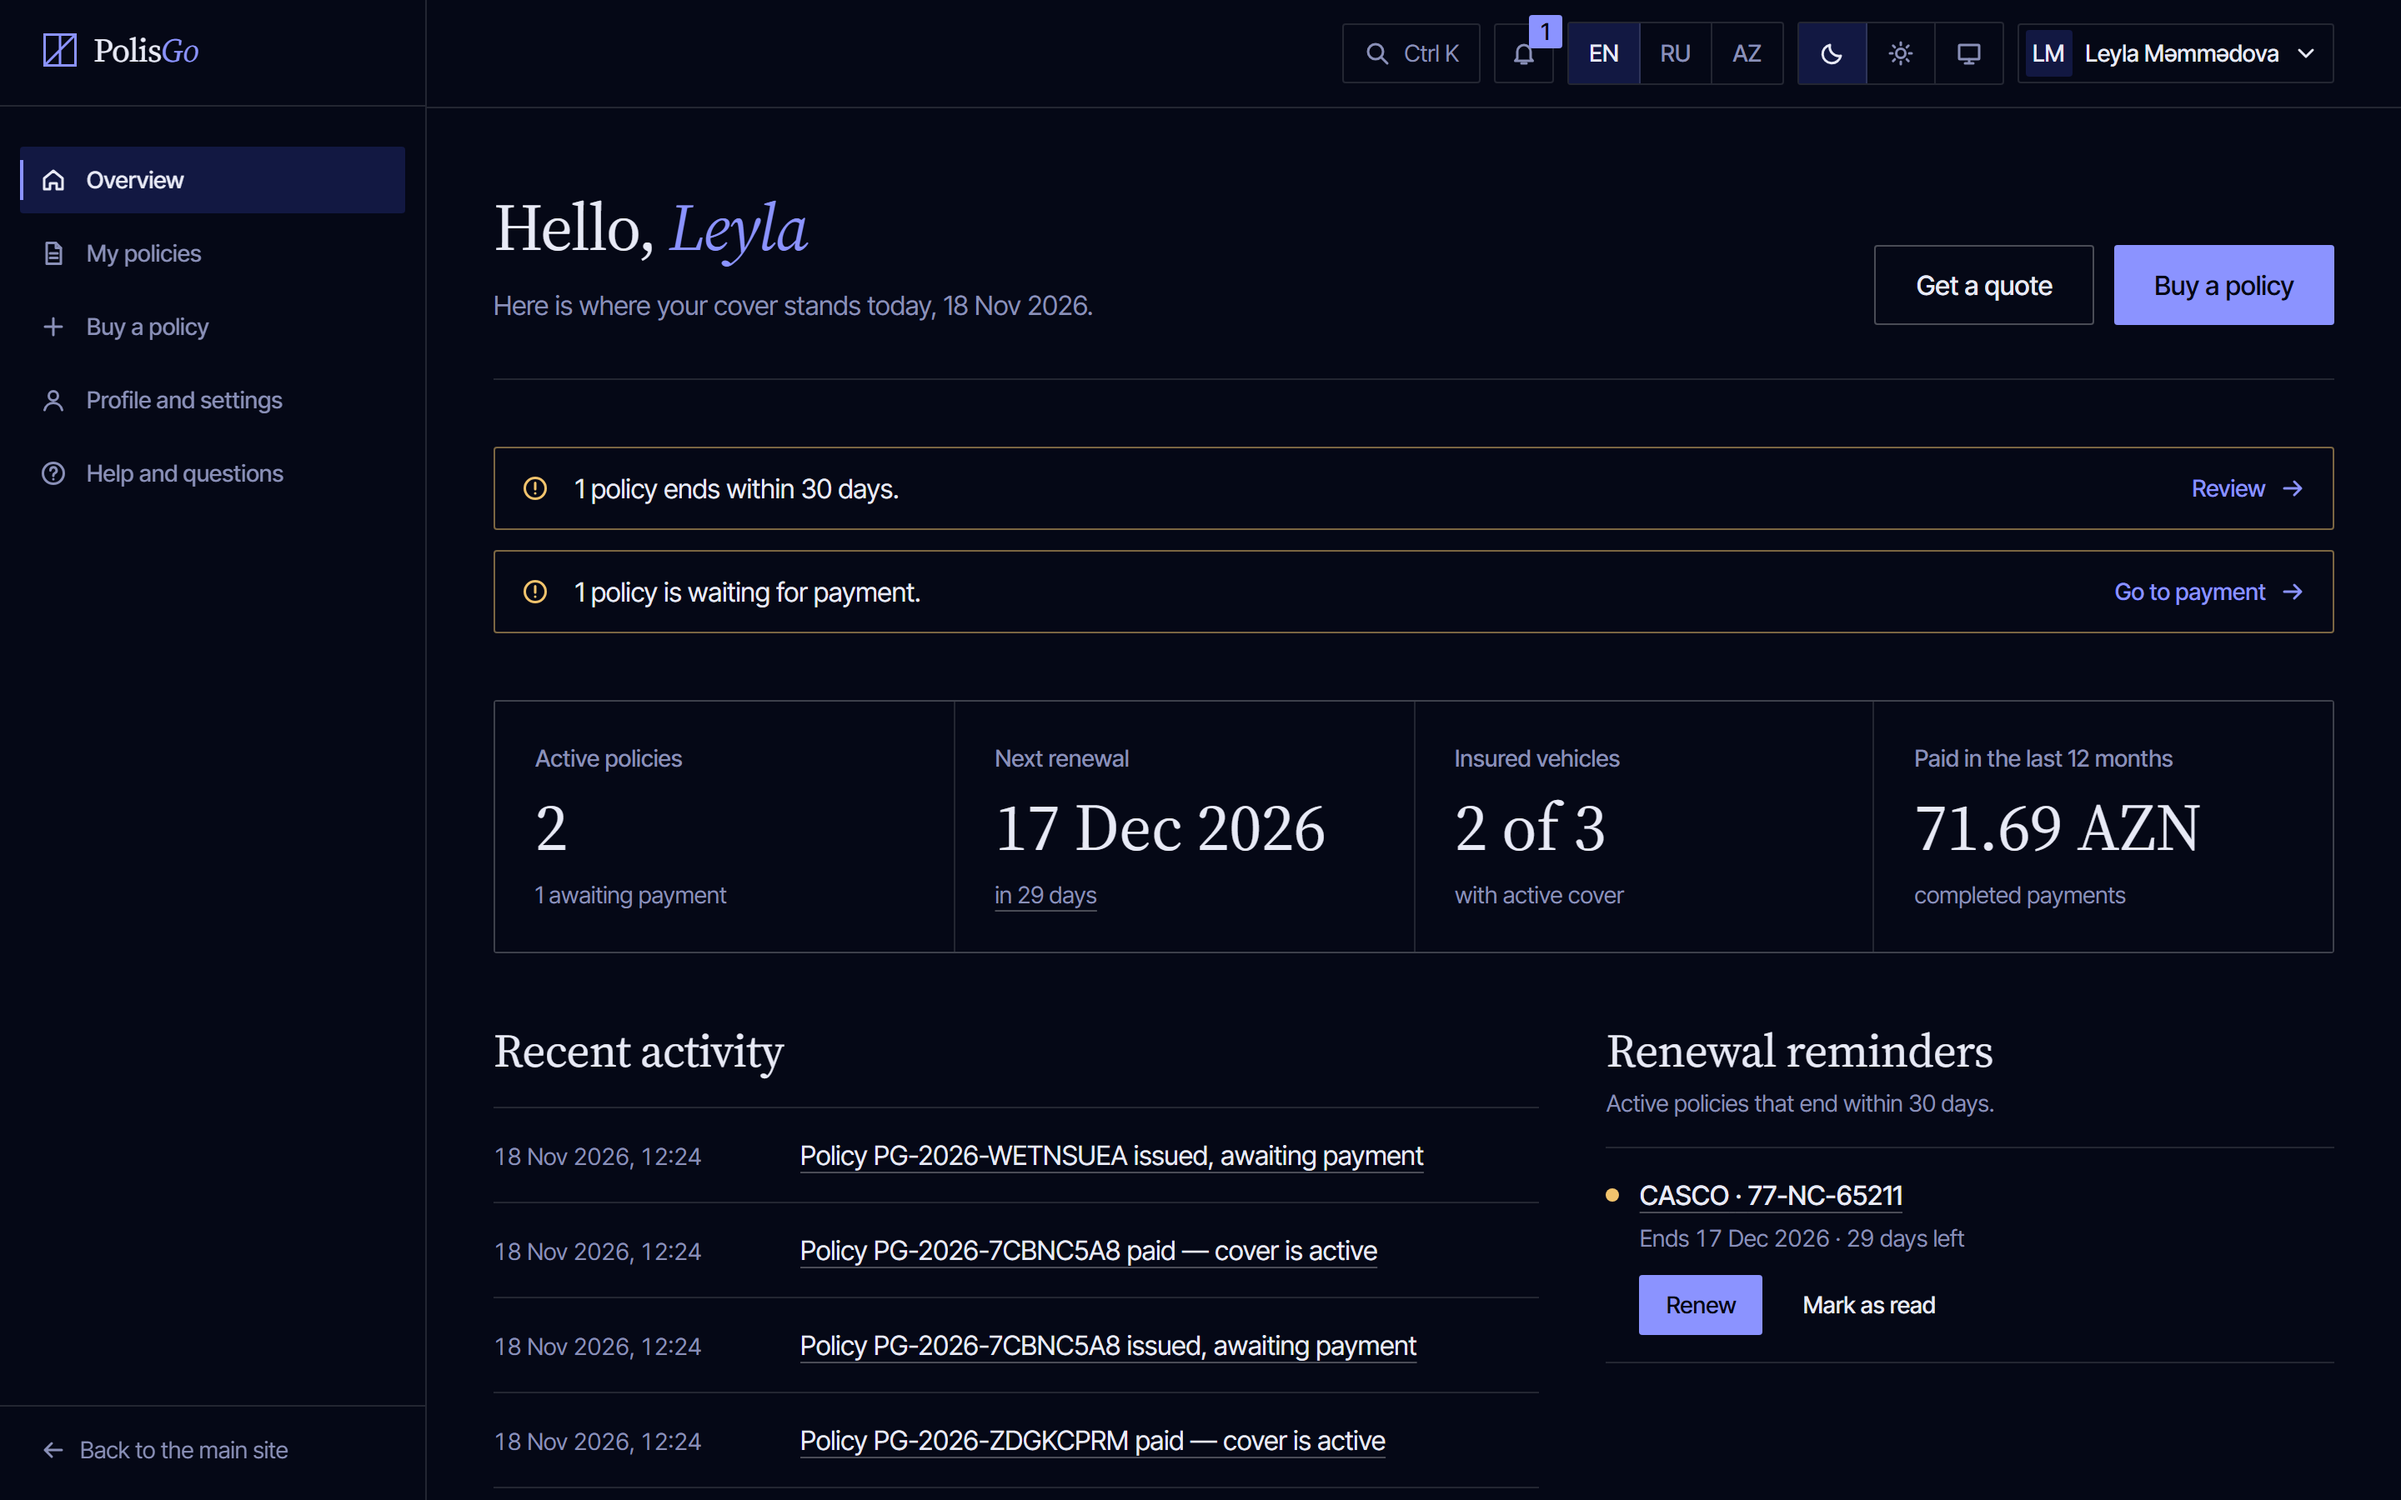
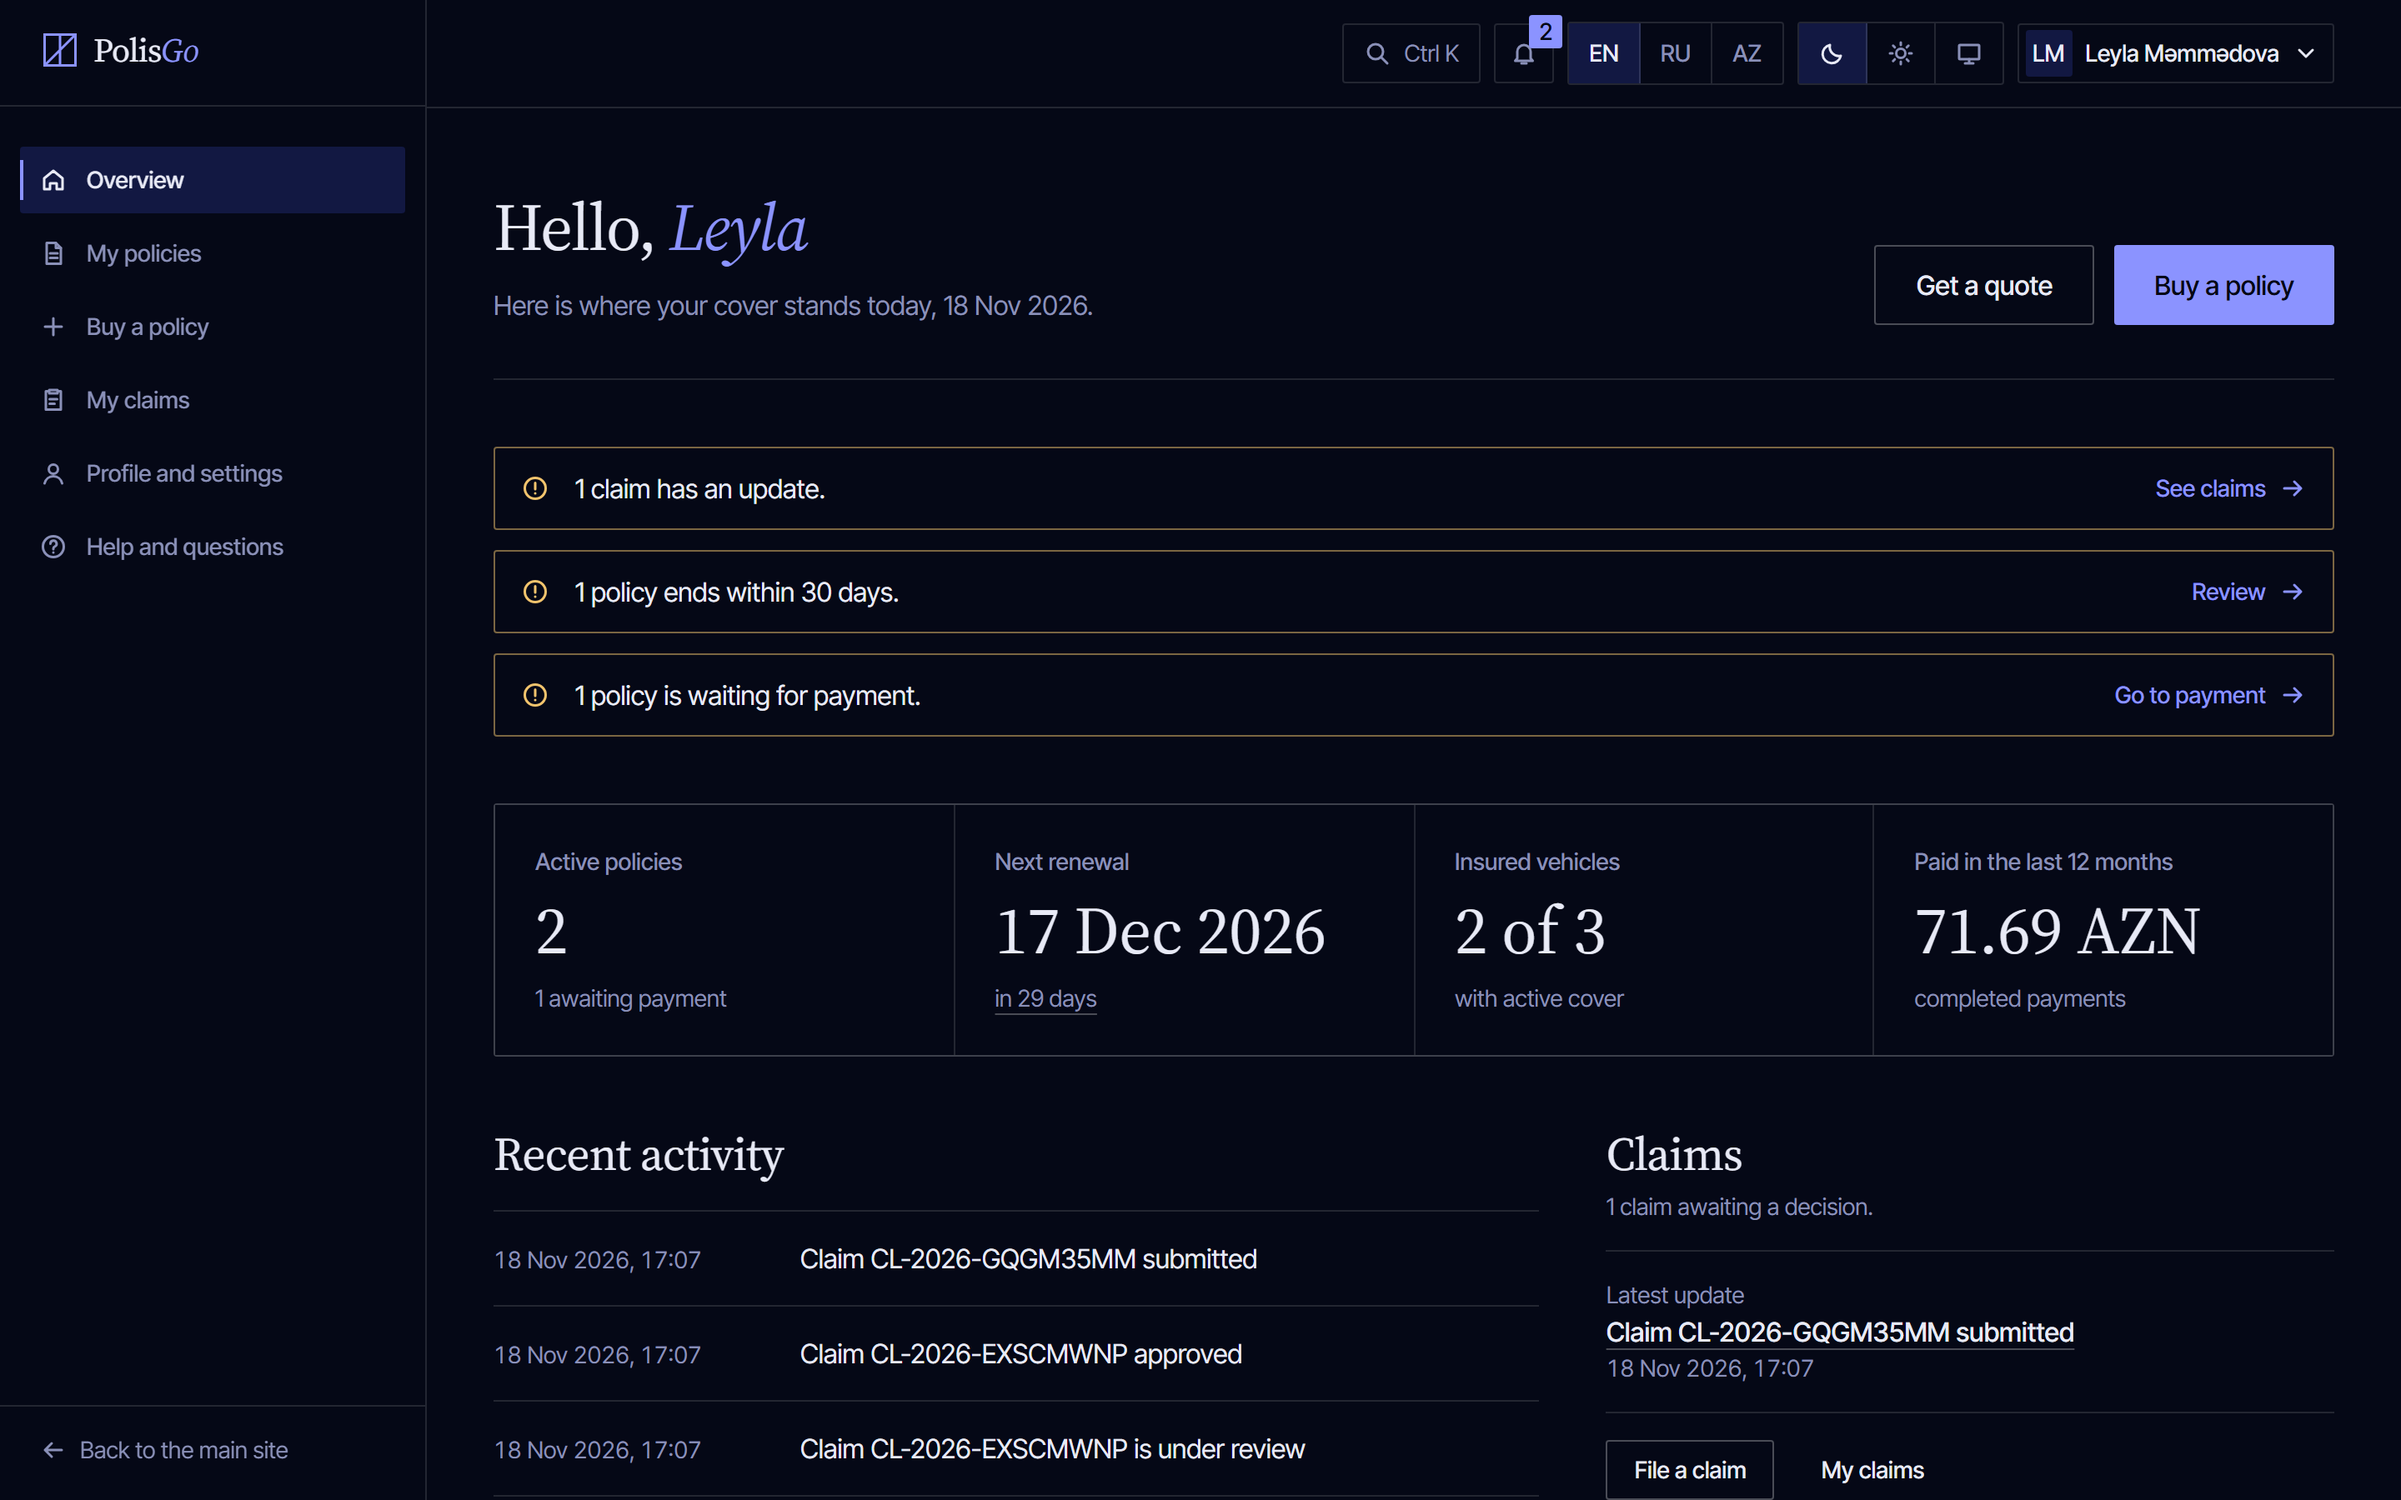
docs: claims screenshots, dark and light, desktop and mobile
Adds the claims list, a decided claim with its timeline and the claim
wizard (first screen) to the screenshot run, seeded with real claims
through the API, and regenerates the cabinet set.

diff --git a/frontend/e2e/screenshots.spec.ts b/frontend/e2e/screenshots.spec.ts
@@ -1,7 +1,10 @@
 import { test } from '@playwright/test';
 import type { Page } from '@playwright/test';
 import {
+  adminApi,
   cabinetApi,
+  claimsApi,
+  FILES,
   randomUser,
   uniqueVehicle,
   registerSession,
@@ -60,7 +63,16 @@ for (const size of SIZES) {
 
 /* ---------- Client cabinet: first screen only ---------- */
 
-const CABINET_PAGES = ['overview', 'policies', 'policy', 'buy', 'profile'] as const;
+const CABINET_PAGES = [
+  'overview',
+  'policies',
+  'policy',
+  'buy',
+  'claims',
+  'claim',
+  'claim-new',
+  'profile',
+] as const;
 const THEMES: Theme[] = ['dark', 'light'];
 
 // One client with real data behind every page: an active policy, one that
@@ -78,7 +90,28 @@ async function seedClient(page: Page) {
     plateNumber: `10-AA-${String(Math.floor(Math.random() * 1e5)).padStart(5, '0')}`,
   });
   await api.policy(spare.id, 'CASCO', 6);
-  return { session, policyId: policy.id };
+
+  // Claims: one decided (a full timeline with the adjuster's note), one open.
+  const claims = claimsApi(page, session);
+  const decided = await claims.file(policy.id, {
+    claimedAmount: 1240,
+    description: 'Rear bumper and boot lid dented at a red light; the other driver admitted fault.',
+  });
+  await claims.upload(decided.id, 'rear-bumper.png', FILES.png);
+  await claims.upload(decided.id, 'garage-estimate.pdf', FILES.pdf, 'application/pdf');
+  const admin = await adminApi(page);
+  await admin.act(decided.id, 'review', { comment: 'Checking the photos against the estimate.' });
+  await admin.act(decided.id, 'approve', {
+    approvedAmount: 1190,
+    comment: 'Approved minus the 50 AZN excess.',
+  });
+  await claims.file(policy.id, {
+    incidentType: 'Glass',
+    claimedAmount: 180,
+    location: 'Baku–Sumgait highway, km 12',
+    description: 'A stone from a truck cracked the windscreen.',
+  });
+  return { session, policyId: policy.id, claimId: decided.id };
 }
 
 for (const size of SIZES) {
@@ -88,7 +121,7 @@ for (const size of SIZES) {
     for (const theme of THEMES) {
       test(`cabinet-${theme}-${size.label}`, async ({ page }) => {
         await page.emulateMedia({ reducedMotion: 'reduce' });
-        const { session, policyId } = await seedClient(page);
+        const { session, policyId, claimId } = await seedClient(page);
         await usePreferences(page, { theme, lang: 'en' });
         await useSession(page, session);
 
@@ -97,6 +130,9 @@ for (const size of SIZES) {
           policies: '/app/policies',
           policy: `/app/policies/${policyId}`,
           buy: '/app/buy',
+          claims: '/app/claims',
+          claim: `/app/claims/${claimId}`,
+          'claim-new': '/app/claims/new',
           profile: '/app/profile',
         };
         for (const name of CABINET_PAGES) {
@@ -110,6 +146,10 @@ for (const size of SIZES) {
             await page.getByRole('radio', { name: /^MTPL/ }).check();
             await page.getByText(/^Your premium: /).waitFor({ state: 'attached', timeout: 15_000 });
           }
+          if (name === 'claims') await page.getByText('2 claims', { exact: true }).waitFor();
+          if (name === 'claim') await page.getByRole('heading', { name: 'History' }).waitFor();
+          if (name === 'claim-new')
+            await page.getByRole('heading', { name: 'Which policy is the claim for?' }).waitFor();
           if (name === 'profile') await page.getByLabel('Full name').waitFor();
           await page.evaluate(() => document.fonts.ready);
           await page.waitForTimeout(400);
